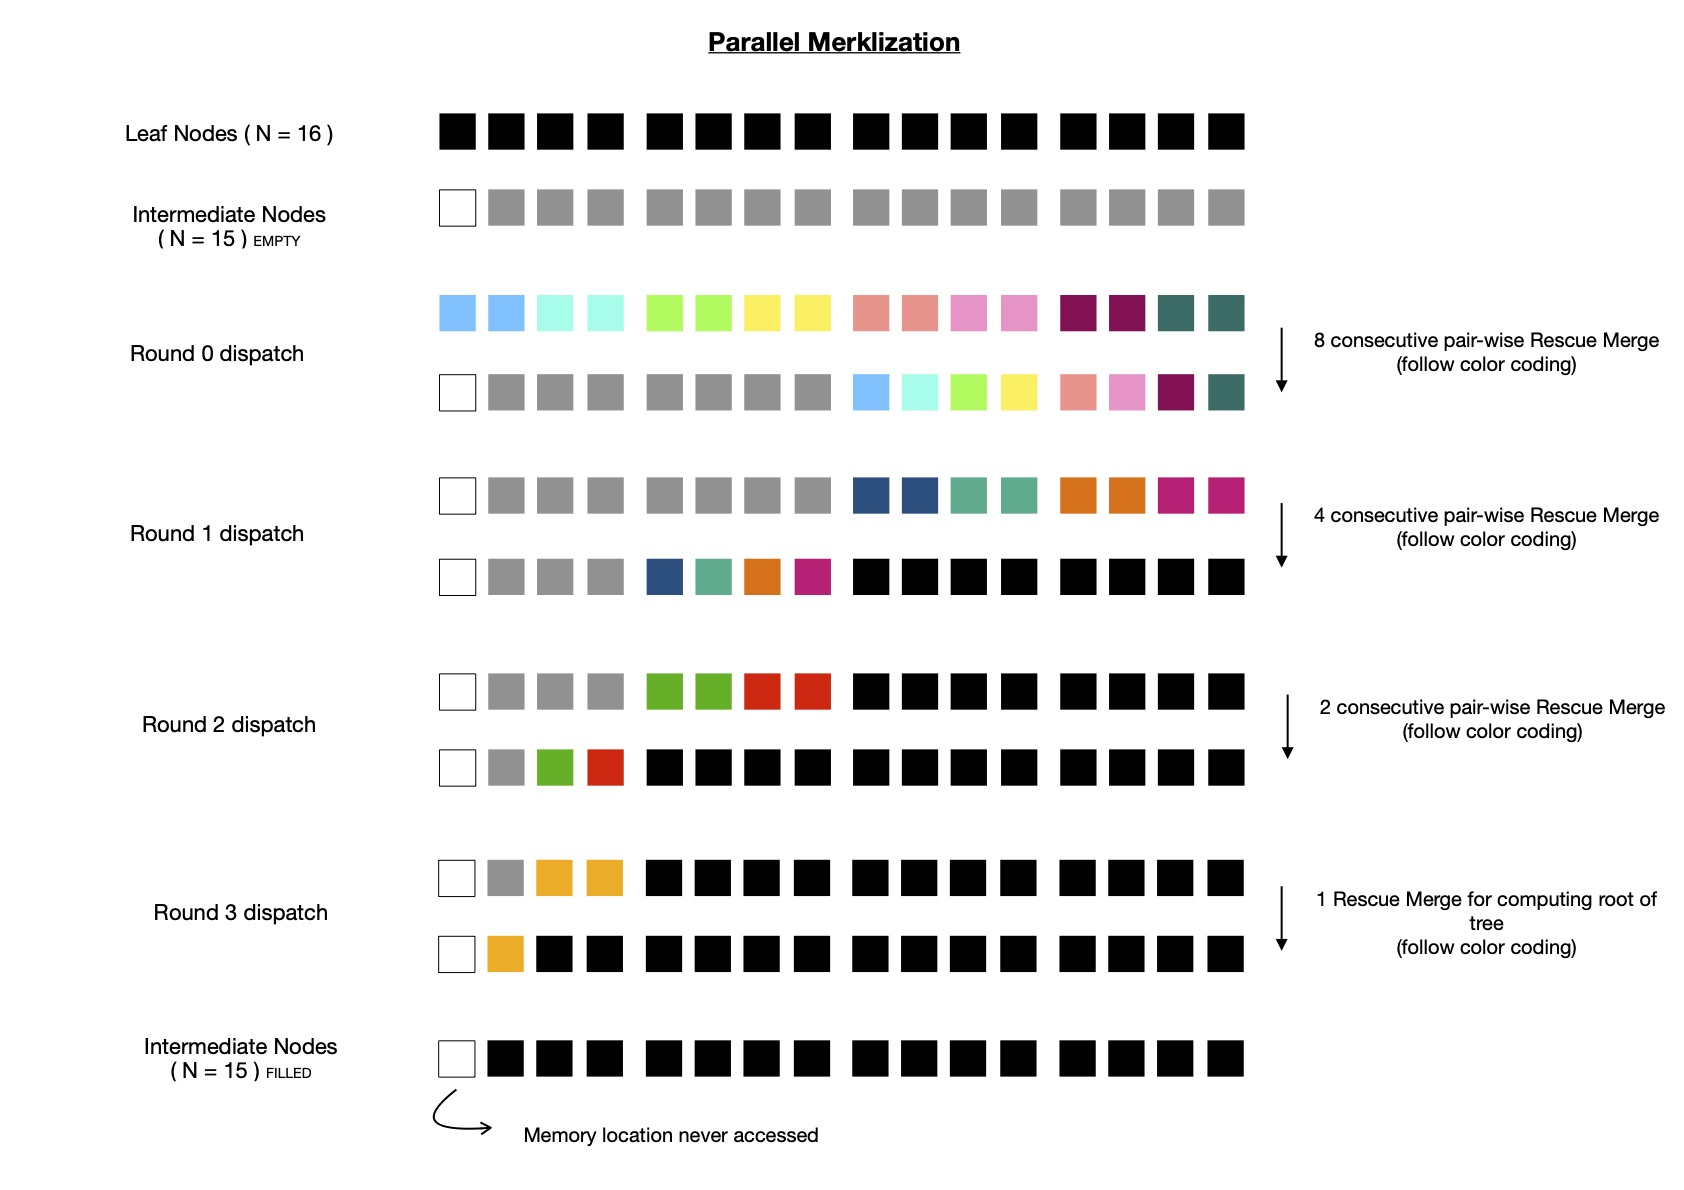
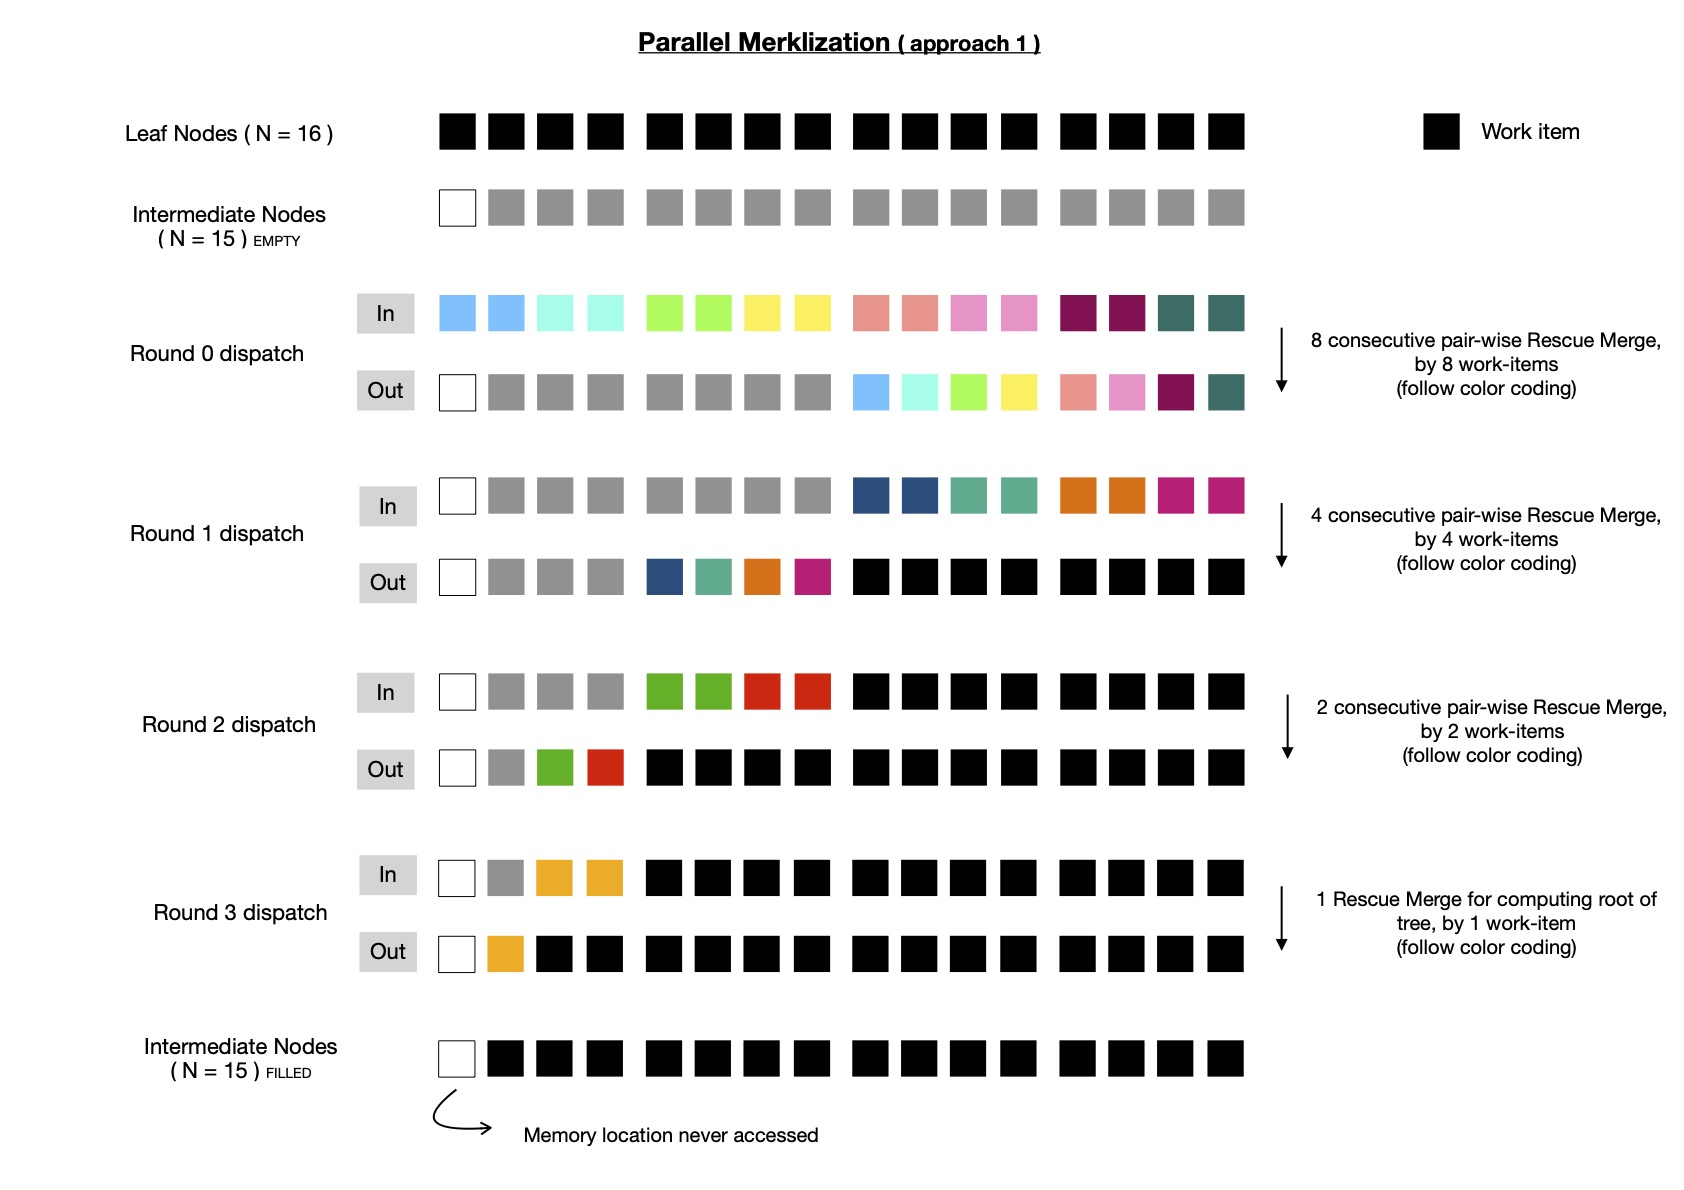
introducing approach 2 of merklization; wip

diff --git a/pages/evaluate-merklizaion-design-performance-in-sycl.html b/pages/evaluate-merklizaion-design-performance-in-sycl.html
@@ -121,11 +121,62 @@
                 <p class="blogText">
                     In above diagram, N ( = 16 ) -many leaf nodes are used for depicting execution flow. It requires 4 kernel
                     dispatch rounds to compute all intermediates and each of them are data dependent on previous round. Each dispatch
-                    round shows how many work-items are required to parallelly compute all computable intermediate nodes; which work-item
-                    accesses which pair of consequtive nodes ( either leaves/ intermediates; leaves applicable only during round 0 ). Note,
-                    very first memory location ( resevered for some Rescue Prime digest ) is never accessed by any of dispatched kernels, because
-                    (N - 1) -many intermediate nodes are stored in memory allocation able to store N -many intermediate nodes, where N is power of 2.
+                    round shows how many work-items are required to parallelly compute all computable intermediate nodes, by invoking Rescue <span class="highlight">merge</span> function;
+                    which work-item accesses which pair of consequtive nodes ( either leaves/ intermediates; leaves applicable only during round 0 ).
+                    Note, very first memory location ( resevered for some Rescue Prime digest ) is never accessed by any of dispatched kernels, because
+                    (N - 1) -many intermediate nodes are stored in memory allocated for storing total of N -many intermediate nodes, where N is power of 2.
                 </p>
+                <p class="blogText">
+                    Implementing this in SYCL is pretty easy, using USM allocation allows me to perform pointer arithmetics, which is much more
+                    familiar compared to SYCL buffer/ sub-buffer/ accessor. I suggest you take a look
+                    <a class="blogLink" href="https://github.com/itzmeanjan/ff-gpu/blob/8e480571b15d747ee5747f1853781317b4e5c9ae/merkle_tree.cpp#L3-L102" target="_blank">here</a>
+                    for exploring exact implementation details of <b>approach 1</b>.
+                </p>
+                <p class="blogText">
+                    Notice when N is relatively large, say = 2<sup>24</sup>, total 24 kernel dispatch rounds will be required to compute all intermediate
+                    nodes. Dispatching kernel requires host-device interaction, which is not cheap. Also OpenCL/ SYCL doesn't yet
+                    allow recording commands into a buffer and then replaying same when required to be executed as I can do in Vulkan Compute; with that during actual kernel execution,
+                    host-device interaction can be reduced and more work will be ready for offloading, while suffering less from host latencies due to say context switching.
+                    Well, OpenCL has <a class="blogLink" href="https://www.khronos.org/registry/OpenCL/specs/3.0-unified/html/OpenCL_Ext.html#cl_khr_command_buffer" target="_blank">this extension</a>
+                    just to experiment with that idea, but today I'm working with SYCL. Motivated by this reason, I decided to devise a way
+                    so that kernel dispatch round count can be reduced while Merklizing.
+                    <br>
+                    <br>
+                    I'm going to refer to this new Merklization technique as <b>approach 2</b>. Say we've N = 2<sup>24</sup> -many leaf nodes and we're using work-group
+                    size B = 2<sup>8</sup>, then number of required kernel dispatch rounds for constructing Merkle Tree using <b>approach 2</b> will be
+                    <tt>log<sub>2</sub>(N >> (2 + log<sub>2</sub>B)) + 1</tt>, which turns out to be 15, much lesser than 24, which would be required using <b>approach 1</b>.
+                    Also note, it doesn't matter what is work-group size, required #-of kernel dispatch rounds will always be log<sub>2</sub>N using <b>approach 1</b>.
+                    But using <b>approach 2</b>, work-group size can influence total #-of required kernel dispatch rounds to compute whole Merkle Tree.
+                    If I increase work-group size B to say 2<sup>9</sup>, then following aforementioned formula, I'll be required to dispatch kernel 14 times.
+                    But as per my experience, increasing work-group size to that large value benefits less, which we'll explore soon.
+                    Say, finally I decide to live with work-group size B = 2<sup>6</sup>, I'll be required to perform 17 rounds of kernel dispatch, which is still lesser than
+                    24 rounds, required in <b>approach 1</b>.
+                    <br>
+                    <br>
+                    I've come up with following formula for computing required #-of kernel dispatch rounds using <b>approach 2</b>.
+                    You should notice, an appended <tt>+ 1</tt>, in each of these cases, that's coming from <a class="blogLink" href="https://github.com/itzmeanjan/ff-gpu/blob/8e480571b15d747ee5747f1853781317b4e5c9ae/merkle_tree.cpp#L122-L135" target="_blank">here</a>
+                    --- the very first round of kernel dispatch reads all N -many leaves from input buffer and writes (N >> 1) -many intermediate nodes
+                    ( living just above leaf nodes ) in designated location of output buffer. After that remaining intermediate nodes are computed
+                    in one/ many rounds. Note, each of these kernel dispatch rounds are data dependent on previous one, which is due to
+                    inherent hierarchical structure of Merkle Tree.
+                </p>
+                <div class="microlight">
+    # see https://github.com/itzmeanjan/ff-gpu/blob/8e480571b15d747ee5747f1853781317b4e5c9ae/merkle_tree.cpp#L137-L147
+    #
+    # `+ 1` at end of each case comes due to first kernel dispatch
+    # https://github.com/itzmeanjan/ff-gpu/blob/8e480571b15d747ee5747f1853781317b4e5c9ae/merkle_tree.cpp#L122-L135
+
+    N = leaf count
+    B = work-group size
+    R = number of kernel dispatch rounds
+
+    if N >> 2 == B:
+        R = 1 + 1
+    elif N >> 3 == B
+        R = (log2(N >> (2 + log2(B))) + 1) + 1
+    else:
+        R = log2(N >> (2 + log2(B))) + 1
+                </div>
             </article>
         </div>
     </div>
